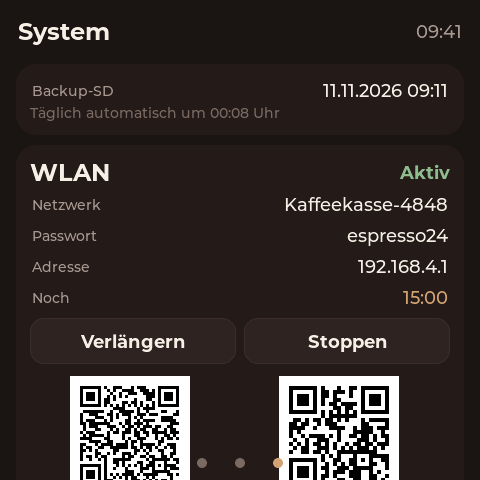
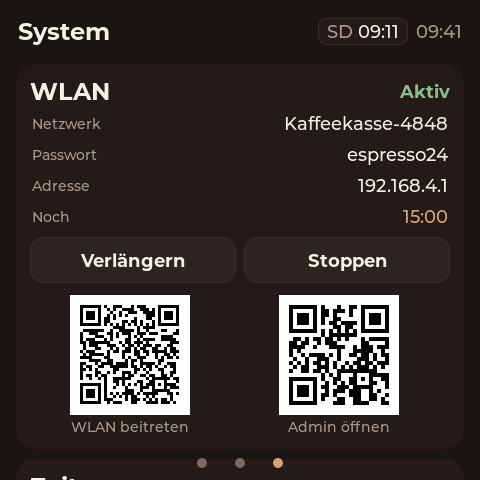
fix(ui): move the SD status into the page-3 header chip
The first attempt put a full-width card above the WLAN card, which pushed the
QR block down 81 px: both QR captions fell off-screen, the codes lost their
bottom quiet zone and the page dots landed on the right QR.

The status now lives inside the fixed 56 px header band, left of the clock:
a muted `SD` prefix plus one short state word/time in a faint pill, so nothing
above the WLAN card grows. The title absorbs the free space and keeps the chip
and clock on the right edge. The chip is created once and only re-texted by the
existing 5 s page-3 refresh; it reads cached `stats()` only.

States: `fehlt` (muted), last success time `09:11` (text colour, no date),
`Fehler` (warning colour, raw English error stays in the log), `ok` (muted)
and `gesichert` for the unset-clock marker. Measured on the committed capture:
the chip covers x 320-407, y 18-44; every pixel at y >= 45 is identical to the
previous screenshot, so WLAN, both QR codes with their captions and the page
dots render exactly as before.

diff --git a/firmware/components/ui/src/page_system.cpp b/firmware/components/ui/src/page_system.cpp
@@ -69,7 +69,7 @@ lv_obj_t* make_qr_block(lv_obj_t* parent, const std::string& payload, const char
 }  // namespace
 
 void UiAppImpl::build_page_system(lv_obj_t* tile) {
-    build_header(tile, strings::SYSTEM_TITLE, &clock_labels_[2]);
+    build_header(tile, strings::SYSTEM_TITLE, &clock_labels_[2], &system_sd_label_);
 
     system_body_ = lv_obj_create(tile);
     lv_obj_set_size(system_body_, lv_pct(100), 424);
@@ -127,7 +127,6 @@ void UiAppImpl::build_system_body() {
     system_time_last_ = nullptr;
     system_time_quality_ = nullptr;
     system_time_warning_ = nullptr;
-    system_sd_caption_ = nullptr;
     for (lv_obj_t*& value : stat_values_) value = nullptr;
 
     NetworkStatus network = backend_.network_status();
@@ -167,19 +166,6 @@ void UiAppImpl::build_system_body() {
             theme::set_wrapped(start_hint);
         }
     }
-
-    // --- Backup (microSD) -------------------------------------------------
-    // Calm status strip at the top: the only silent background job, so it is
-    // worth seeing before the admin actions. One row, one caption.
-    lv_obj_t* backup = theme::make_card(system_body_);
-    lv_obj_set_width(backup, lv_pct(100));
-    lv_obj_set_height(backup, LV_SIZE_CONTENT);
-    lv_obj_set_flex_flow(backup, LV_FLEX_FLOW_COLUMN);
-    lv_obj_set_style_pad_row(backup, 2, 0);
-    make_info_row(backup, strings::SYSTEM_SD, "", &stat_values_[STAT_SD_BACKUP]);
-    system_sd_caption_ = theme::make_label(backup, strings::SYSTEM_SD_CAPTION, theme::font_small(),
-                                           theme::color(theme::COLOR_DIM));
-    theme::set_wrapped(system_sd_caption_);
 
     // --- WLAN -------------------------------------------------------------
     lv_obj_t* wlan = theme::make_card(system_body_);
@@ -386,23 +372,20 @@ void UiAppImpl::update_system_dynamic() {
     set_stat(STAT_NETWORK, ip);
     set_stat(STAT_DRINKS_TODAY, std::to_string(stats.drinks_today));
 
-    // Backup row: reads the cached status only, never the card. The raw error
-    // message stays in the log; the panel shows a short German state.
+    // Backup chip: reads the cached status only, never the card. The raw error
+    // message stays in the log; the header shows a short German state.
     const SdBackupStatus sd = sd_backup_status(stats.sd_card_present, stats.sd_backup_ok,
                                                stats.sd_last_success, !stats.sd_last_error.empty());
-    if (stat_values_[STAT_SD_BACKUP] != nullptr) {
-        lv_label_set_text(stat_values_[STAT_SD_BACKUP], sd.value.c_str());
+    if (system_sd_label_ != nullptr) {
+        lv_label_set_text(system_sd_label_, sd.value.c_str());
         lv_color_t color = theme::color(theme::COLOR_TEXT);
-        if (sd.state == SdBackupState::NotDetected || sd.state == SdBackupState::Present) {
+        if (sd.state == SdBackupState::NotDetected || sd.state == SdBackupState::Present ||
+            sd.state == SdBackupState::SavedWithoutClock) {
             color = theme::color(theme::COLOR_MUTED);
         } else if (sd.state == SdBackupState::Error) {
             color = theme::color(theme::COLOR_NEGATIVE);
         }
-        lv_obj_set_style_text_color(stat_values_[STAT_SD_BACKUP], color, 0);
-    }
-    if (system_sd_caption_ != nullptr) {
-        lv_label_set_text(system_sd_caption_,
-                          sd.attention ? strings::SYSTEM_SD_HINT : strings::SYSTEM_SD_CAPTION);
+        lv_obj_set_style_text_color(system_sd_label_, color, 0);
     }
 }
 

diff --git a/firmware/components/ui/src/ui_app.cpp b/firmware/components/ui/src/ui_app.cpp
@@ -165,7 +165,8 @@ void UiAppImpl::build() {
     // see the flip.
 }
 
-lv_obj_t* UiAppImpl::build_header(lv_obj_t* parent, const char* title, lv_obj_t** clock_label) {
+lv_obj_t* UiAppImpl::build_header(lv_obj_t* parent, const char* title, lv_obj_t** clock_label,
+                                  lv_obj_t** sd_label) {
     lv_obj_t* header = lv_obj_create(parent);
     lv_obj_set_size(header, lv_pct(100), 56);
     lv_obj_set_pos(header, 0, 0);
@@ -178,7 +179,40 @@ lv_obj_t* UiAppImpl::build_header(lv_obj_t* parent, const char* title, lv_obj_t*
     lv_obj_set_style_pad_top(header, 8, 0);
     lv_obj_set_style_pad_bottom(header, 0, 0);
 
-    theme::make_label(header, title, theme::font_title_bold(), theme::color(theme::COLOR_TEXT));
+    lv_obj_t* title_label =
+        theme::make_label(header, title, theme::font_title_bold(), theme::color(theme::COLOR_TEXT));
+
+    if (sd_label != nullptr) {
+        // Backup status sits in the header band, so nothing above the WLAN card
+        // grows. The title takes the free space and keeps the chip + clock on
+        // the right edge.
+        lv_obj_set_flex_grow(title_label, 1);
+        lv_obj_set_style_pad_column(header, 8, 0);
+
+        lv_obj_t* chip = lv_obj_create(header);
+        theme::make_transparent(chip);
+        lv_obj_set_size(chip, LV_SIZE_CONTENT, LV_SIZE_CONTENT);
+        lv_obj_set_flex_flow(chip, LV_FLEX_FLOW_ROW);
+        lv_obj_set_flex_align(chip, LV_FLEX_ALIGN_END, LV_FLEX_ALIGN_CENTER, LV_FLEX_ALIGN_CENTER);
+        // A faint pill separates the backup state from the clock; without it
+        // the two time values next to each other read as one string.
+        lv_obj_set_style_bg_color(chip, theme::color(theme::COLOR_SURFACE), 0);
+        lv_obj_set_style_bg_opa(chip, LV_OPA_COVER, 0);
+        lv_obj_set_style_border_width(chip, 1, 0);
+        lv_obj_set_style_border_color(chip, theme::color(theme::COLOR_BORDER), 0);
+        lv_obj_set_style_radius(chip, 9, 0);
+        lv_obj_set_style_pad_hor(chip, 8, 0);
+        lv_obj_set_style_pad_ver(chip, 2, 0);
+        lv_obj_set_style_pad_column(chip, 5, 0);
+        theme::hide_scrollbars(chip);
+
+        theme::make_label(chip, strings::SYSTEM_SD, theme::font_body(),
+                          theme::color(theme::COLOR_MUTED));
+        lv_obj_t* state =
+            theme::make_label(chip, "", theme::font_body(), theme::color(theme::COLOR_MUTED));
+        *sd_label = state;
+    }
+
     lv_obj_t* clock =
         theme::make_label(header, "--:--", theme::font_body(), theme::color(theme::COLOR_MUTED));
     if (clock_label != nullptr) *clock_label = clock;

diff --git a/tests/host/ui_format_test.cpp b/tests/host/ui_format_test.cpp
@@ -60,40 +60,36 @@ TEST_CASE("month navigation produces stable bounds") {
     CHECK(to - from <= 31 * 86400);
 }
 
-TEST_CASE("microSD backup status maps to calm German row states") {
+TEST_CASE("microSD backup status maps to a short German header state") {
     const Timestamp saved = 1'794'386'460;  // 2026-11-11 09:41 Europe/Berlin
 
-    // No card or mount failure: muted, with the actionable hint.
+    // No card or mount failure: short muted word.
     const ui::SdBackupStatus missing = ui::sd_backup_status(false, false, 0, false);
     CHECK(missing.state == ui::SdBackupState::NotDetected);
-    CHECK(missing.value == "nicht erkannt");
-    CHECK(missing.attention);
+    CHECK(missing.value == "fehlt");
 
     // A probe that lost the card wins over an older success or error.
-    const ui::SdBackupStatus gone = ui::sd_backup_status(false, true, saved, false);
-    CHECK(gone.state == ui::SdBackupState::NotDetected);
+    CHECK(ui::sd_backup_status(false, true, saved, false).state == ui::SdBackupState::NotDetected);
 
     // Card seen but nothing has succeeded yet.
     const ui::SdBackupStatus detected = ui::sd_backup_status(true, false, 0, false);
     CHECK(detected.state == ui::SdBackupState::Present);
-    CHECK(detected.value == "erkannt");
-    CHECK_FALSE(detected.attention);
+    CHECK(detected.value == "ok");
 
     // Failed write: short German state, never the raw English error text.
     const ui::SdBackupStatus failed =
         ui::sd_backup_status(true, false, saved, true /* has_error */);
     CHECK(failed.state == ui::SdBackupState::Error);
-    CHECK(failed.value == "Fehler beim Sichern");
-    CHECK(failed.attention);
+    CHECK(failed.value == "Fehler");
 
-    // Successful run: date + HH:MM, no seconds, like the clock row.
+    // Successful run: time only (no date, no seconds) so it fits the header.
     const ui::SdBackupStatus done = ui::sd_backup_status(true, true, saved, false);
     CHECK(done.state == ui::SdBackupState::Saved);
-    CHECK(done.value == ui::format_date(saved) + " " + ui::format_clock(saved));
-    CHECK(done.value == "11.11.2026 09:41");
-    CHECK_FALSE(done.attention);
+    CHECK(done.value == ui::format_clock(saved));
+    CHECK(done.value == "09:41");
+    CHECK(done.value.size() == 5);
 
-    // A success from a stale error string still shows the good run.
+    // A stale error string next to a successful run still shows the good run.
     CHECK(ui::sd_backup_status(true, true, saved, true).state == ui::SdBackupState::Saved);
 
     // Unset clock: "gesichert", never 1970 and never "--:--".

diff --git a/firmware/components/ui/src/strings.hpp b/firmware/components/ui/src/strings.hpp
@@ -87,14 +87,13 @@ inline constexpr const char* SYSTEM_TIME_BROWSER = "Browser";
 inline constexpr const char* SYSTEM_TIME_SNTP = "SNTP";
 inline constexpr const char* SYSTEM_TIME_RESTORED = "Wiederhergestellt";
 inline constexpr const char* SYSTEM_TIME_UNSET = "Nicht gesetzt";
-// Backup card (top of page 3). The value itself is composed in format.cpp.
-inline constexpr const char* SYSTEM_SD = "Backup-SD";
-inline constexpr const char* SYSTEM_SD_NOT_DETECTED = "nicht erkannt";
-inline constexpr const char* SYSTEM_SD_DETECTED = "erkannt";
+// Backup status in the page-3 header. `SYSTEM_SD` is the muted prefix; the
+// state label carries the colour and one short word or the last success time.
+inline constexpr const char* SYSTEM_SD = "SD";
+inline constexpr const char* SYSTEM_SD_NOT_DETECTED = "fehlt";
+inline constexpr const char* SYSTEM_SD_DETECTED = "ok";
 inline constexpr const char* SYSTEM_SD_SAVED = "gesichert";
-inline constexpr const char* SYSTEM_SD_ERROR = "Fehler beim Sichern";
-inline constexpr const char* SYSTEM_SD_CAPTION = "Täglich automatisch um 00:08 Uhr";
-inline constexpr const char* SYSTEM_SD_HINT = "Karte einsetzen oder prüfen";
+inline constexpr const char* SYSTEM_SD_ERROR = "Fehler";
 
 inline constexpr const char* SYSTEM_DEVICE = "Gerät";
 inline constexpr const char* SYSTEM_TEMPERATURE = "Chip-Temperatur";

diff --git a/firmware/components/ui/src/format.hpp b/firmware/components/ui/src/format.hpp
@@ -26,8 +26,9 @@ std::string initials(const std::string& name);
 std::string time_source_label(TimeSource source, const std::string& last_source);
 std::string rotation_label(int degrees);
 
-// State of the microSD backup row on page 3. The raw backend error text is
-// English and technical, so it never reaches the panel; only this mapping does.
+// State of the microSD backup chip in the page-3 header. The raw backend error
+// text is English and technical, so it never reaches the panel; only this
+// mapping does. Every value is short enough to sit beside the clock.
 enum class SdBackupState {
     NotDetected,        // no compatible card, or the mount failed
     Present,            // card seen, no run has succeeded yet
@@ -38,8 +39,7 @@ enum class SdBackupState {
 
 struct SdBackupStatus {
     SdBackupState state = SdBackupState::NotDetected;
-    std::string value;       // short German value for the row
-    bool attention = false;  // show the actionable hint under the row
+    std::string value;  // short German state word or the last success time
 };
 
 SdBackupStatus sd_backup_status(bool card_present, bool backup_ok, Timestamp last_success,

diff --git a/firmware/components/ui/src/format.cpp b/firmware/components/ui/src/format.cpp
@@ -232,7 +232,6 @@ SdBackupStatus sd_backup_status(bool card_present, bool backup_ok, Timestamp las
     if (!card_present) {
         status.state = SdBackupState::NotDetected;
         status.value = strings::SYSTEM_SD_NOT_DETECTED;
-        status.attention = true;
         return status;
     }
     if (backup_ok) {
@@ -240,15 +239,16 @@ SdBackupStatus sd_backup_status(bool card_present, bool backup_ok, Timestamp las
             status.state = SdBackupState::SavedWithoutClock;
             status.value = strings::SYSTEM_SD_SAVED;
         } else {
+            // The header has no room for a date; the time alone keeps the chip
+            // short and still says when the last run finished.
             status.state = SdBackupState::Saved;
-            status.value = format_date(last_success) + " " + format_clock(last_success);
+            status.value = format_clock(last_success);
         }
         return status;
     }
     if (has_error) {
         status.state = SdBackupState::Error;
         status.value = strings::SYSTEM_SD_ERROR;
-        status.attention = true;
         return status;
     }
     status.state = SdBackupState::Present;

diff --git a/firmware/components/ui/src/ui_internal.hpp b/firmware/components/ui/src/ui_internal.hpp
@@ -81,12 +81,12 @@ class UiAppImpl final : public UiApp, public UiControl {
         STAT_MAC,
         STAT_NETWORK,
         STAT_DRINKS_TODAY,
-        STAT_SD_BACKUP,
         STAT_COUNT,
     };
 
     void build();
-    lv_obj_t* build_header(lv_obj_t* parent, const char* title, lv_obj_t** clock_label);
+    lv_obj_t* build_header(lv_obj_t* parent, const char* title, lv_obj_t** clock_label,
+                           lv_obj_t** sd_label = nullptr);
     void build_page_book(lv_obj_t* tile);
     void build_page_stats(lv_obj_t* tile);
     void build_page_system(lv_obj_t* tile);
@@ -204,8 +204,8 @@ class UiAppImpl final : public UiApp, public UiControl {
     lv_obj_t* system_time_last_ = nullptr;
     lv_obj_t* system_time_quality_ = nullptr;
     lv_obj_t* system_time_warning_ = nullptr;
-    // Caption under the Backup-SD row; swaps to the actionable hint.
-    lv_obj_t* system_sd_caption_ = nullptr;
+    // Backup state label in the page-3 header chip.
+    lv_obj_t* system_sd_label_ = nullptr;
     lv_obj_t* stat_values_[STAT_COUNT] = {};
     bool last_ap_active_ = false;
     bool stay_awake_ = false;

diff --git a/docs/tasks/T-064-microsd-backup.md b/docs/tasks/T-064-microsd-backup.md
@@ -88,13 +88,18 @@ restoring from the card.
 - **Not verified on hardware**: no card and no `/dev/ttyUSB0` were available.
   The physical mount, card removal while mounted and brown-out behaviour remain
   to be checked on the device.
-- **Page 3 status row** (designer): slim `Backup-SD` card above WLAN, rendered
-  from cached `stats()` only (no mount, no filesystem access), refreshed with
-  the existing 5 s page-3 cadence. States: `nicht erkannt` (muted),
-  `11.11.2026 09:41`-style last success, `Fehler beim Sichern` (warning),
-  `erkannt` (muted) and `gesichert` for the unset-clock marker; the raw English
-  `sd_last_error` never reaches the panel. `docs/ui/screenshots/05-system-ap-qr.png`
-  regenerated; `make test-ui` and `tools/check_screenshots.py` cover the row.
+- **Page 3 status chip** (designer): the backup state lives inside the 56 px
+  page header, right of the title and left of the clock — `SD` plus `fehlt`
+  (muted), the last success time (`09:11`, time only), `Fehler` (warning) or
+  `ok` (muted); `gesichert` for the unset-clock marker. It renders from cached
+  `stats()` only (no mount, no filesystem access), refreshes with the existing
+  page-3 cadence (immediate on page entry, 5 s throttle) and re-texts one label
+  instead of rebuilding objects. The raw English `sd_last_error` never reaches
+  the panel. Measured on the committed capture: the chip occupies x 320–407,
+  y 19–43; every pixel at y ≥ 44 (WLAN card, both QR codes, both captions, the
+  page dots) is identical to the previous screenshot, so the primary QR block
+  keeps its full quiet zone. `docs/ui/screenshots/05-system-ap-qr.png`
+  regenerated; `make test-ui` and `tools/check_screenshots.py` cover the page.
 
 ## Risks
 

diff --git a/docs/ui.md b/docs/ui.md
@@ -69,12 +69,12 @@ swallowed, so a scroll can never book a drink.
 
 ### Page 3 — System
 
-- Backup card at the top: `Backup-SD` with the last successful run (date +
-  `HH:MM`), `nicht erkannt` when no compatible card is mounted,
-  `Fehler beim Sichern` after a failed write (never the raw error text) and
-  `erkannt` while a card is present but no run has succeeded yet. A run that
-  succeeded while the clock was unset shows `gesichert`, never 1970. The muted
-  caption states the schedule or asks to insert/check the card.
+- Header chip `SD` directly beside the clock, inside the fixed 56 px header
+  band (no card and no extra line above the WLAN card): `fehlt` (muted) when no
+  compatible card is mounted, the last success time (`09:11`, time only) when a
+  run wrote, `Fehler` in the warning colour after a failed write (never the raw
+  error text) and `ok` (muted) while a card is present but no run has succeeded.
+  A run that succeeded while the clock was unset shows `gesichert`, never 1970.
 - WLAN card: status, `WLAN starten` (3 s long-press), countdown, `Verlängern`,
   `Stoppen`. QR codes only while AP is active: Wi-Fi join + URL. If only STA is
   up, URL QR for the LAN address.
